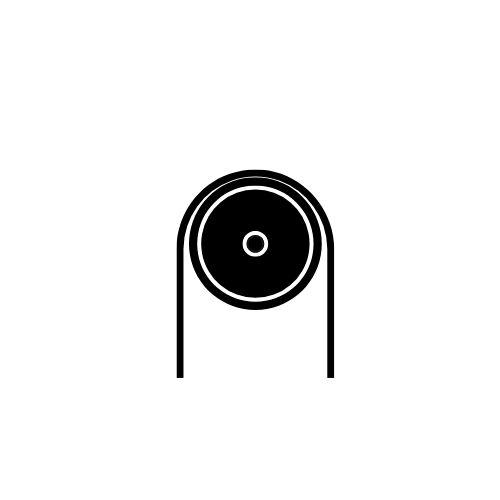
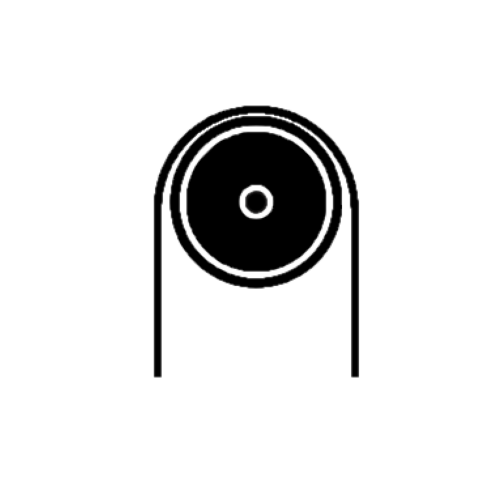
creates training pages proxy

Changed region(s): [[0.3, 0.21, 0.72, 0.78]]

diff --git a/src/pages/training/NameCommentSlide.tsx b/src/pages/training/NameCommentSlide.tsx
@@ -1,0 +1,79 @@
+import { useRef } from "react";
+import AlertMessage from "../../components/alert/AlertMessage";
+import creationFormStyles from "../../components/creationForm/creation-form.module.css";
+import styles from "./new-sequence.module.css";
+import InputField from "../../components/input/InputField";
+import TextAreaField from "../../components/input/TextAreaField";
+import type { NewTrainingSlideProps } from "./NewTrainingSlideProps";
+
+function NameCommentSlide({
+  trainingRequest,
+  setTrainingRequest,
+  nextStep = () => {},
+}: NewTrainingSlideProps) {
+  const nameInputRef = useRef<HTMLInputElement>(null);
+  const descriptionInputRef = useRef<HTMLTextAreaElement>(null);
+
+  const setTrainingName = (name: string) => {
+    setTrainingRequest((prev) => ({
+      ...prev,
+      name: name,
+    }));
+  };
+
+  const setTrainingDescription = (description: string) => {
+    setTrainingRequest((prev) => ({
+      ...prev,
+      description: description,
+    }));
+  };
+
+  const handleNameInputOnKeyUp = (e: React.KeyboardEvent<HTMLInputElement>) => {
+    setTrainingName(e.currentTarget.value);
+  };
+
+  const handleDescInputOnKeyUp = (
+    e: React.KeyboardEvent<HTMLTextAreaElement>
+  ) => {
+    setTrainingDescription(e.currentTarget.value);
+  };
+  return (
+    <div className={creationFormStyles["form-slide"]} id="slide3">
+      <AlertMessage>
+        Exercise Instance's <strong>Name</strong> & <strong>Description</strong>
+      </AlertMessage>
+      <div className={styles["input-fields"]}>
+        <InputField
+          placeHolder="Name"
+          name="equiupment-name"
+          id="exercise-name"
+          inputRef={nameInputRef}
+          defaultValue={trainingRequest.name}
+          handleOnKeyUp={handleNameInputOnKeyUp}
+        />
+        <TextAreaField
+          placeHolder="Comment"
+          name="exercise-description"
+          id="exercise-description"
+          inputRef={descriptionInputRef}
+          defaultValue={trainingRequest.description}
+          handleOnKeyUp={handleDescInputOnKeyUp}
+        />
+      </div>
+      <div className={creationFormStyles["nav-btn-wrap"]}>
+        {trainingRequest.name.trim().length > 0 && (
+          <div
+            className={creationFormStyles["next-btn"]}
+            onClick={() => {
+              nextStep();
+            }}
+          >
+            Next
+          </div>
+        )}
+      </div>
+    </div>
+  );
+}
+
+export default NameCommentSlide;

diff --git a/src/interface/Training.tsx b/src/interface/Training.tsx
@@ -2,6 +2,7 @@ import type { SequenceRequest, SequenceResponse } from "./Sequence";
 
 export type TrainingRequest = {
   name: string;
+  description: string;
   existingSequenceIds: number[]; // already created
   sequenceRequests: SequenceRequest[]; // will be created on persistence
 };
@@ -9,6 +10,7 @@ export type TrainingRequest = {
 export type TrainingResponse = {
   id: number;
   name: string;
+  description: string;
   sequenceResponses: SequenceResponse[];
   creator: string;
 };

diff --git a/src/pages/training/NewTrainingSlideProps.tsx b/src/pages/training/NewTrainingSlideProps.tsx
@@ -1,0 +1,9 @@
+import type { TrainingRequest } from "../../interface/Training";
+
+export type NewTrainingSlideProps = {
+  baseUrl?: string;
+  trainingRequest: TrainingRequest;
+  setTrainingRequest: React.Dispatch<React.SetStateAction<TrainingRequest>>;
+  nextStep?: () => void;
+  prevStep?: () => void;
+};

diff --git a/src/pages/training/NewTrainingPage.tsx b/src/pages/training/NewTrainingPage.tsx
@@ -1,0 +1,5 @@
+function NewTrainingPage() {
+  return <div>NewTrainingPage</div>;
+}
+
+export default NewTrainingPage;

diff --git a/src/pages/training/TrainingPage.tsx b/src/pages/training/TrainingPage.tsx
@@ -1,0 +1,5 @@
+function TrainingPage() {
+  return <div>TrainingPage</div>;
+}
+
+export default TrainingPage;
